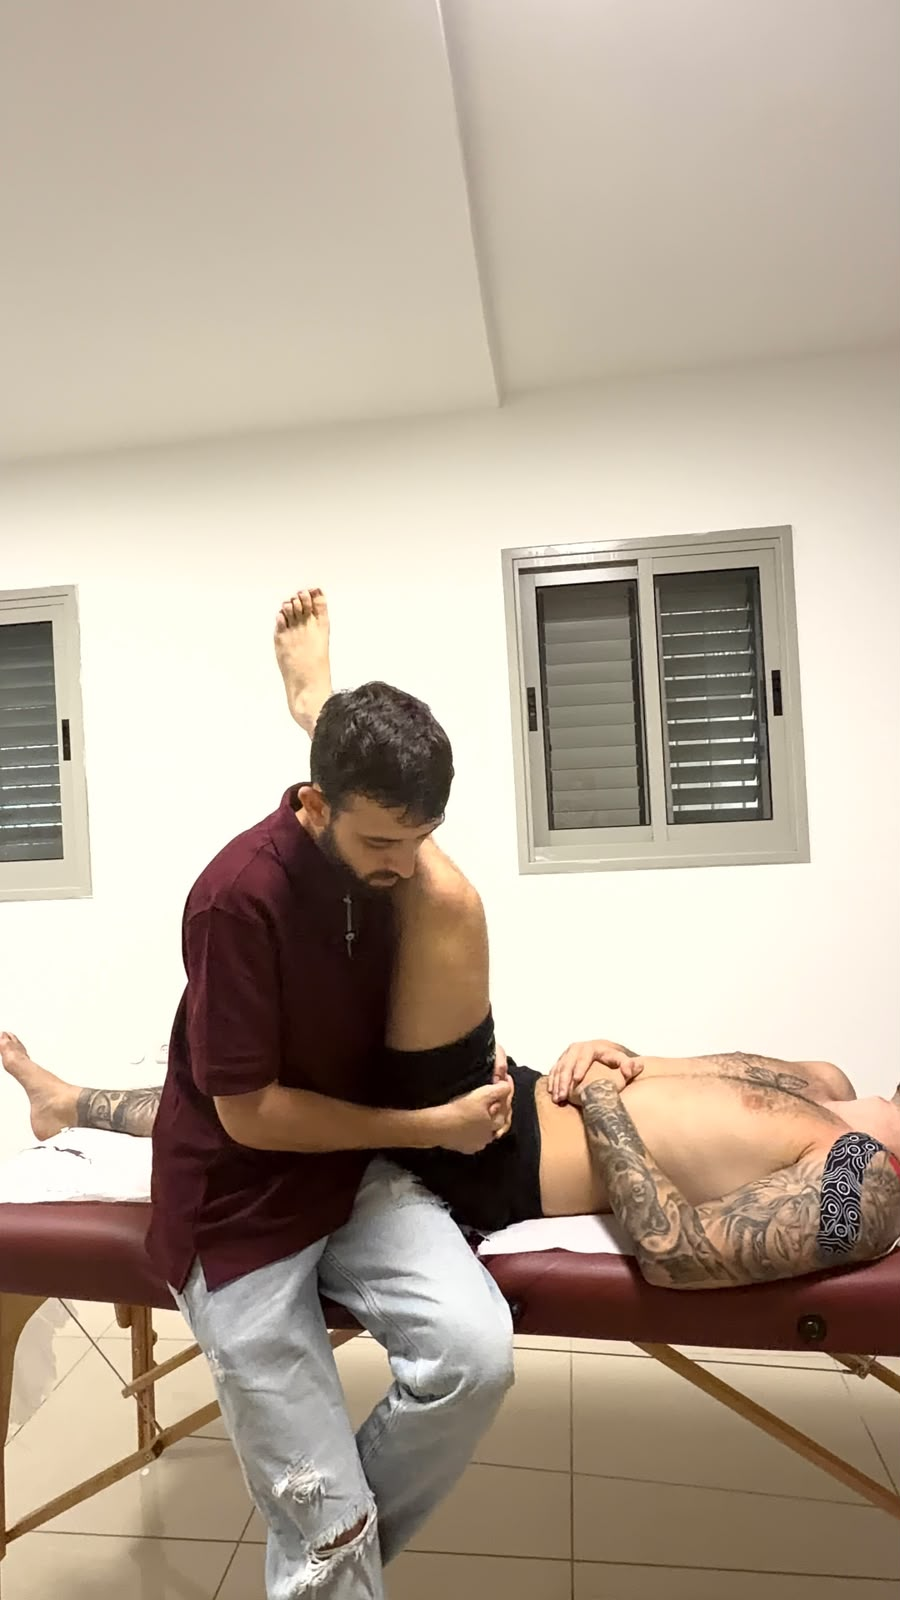
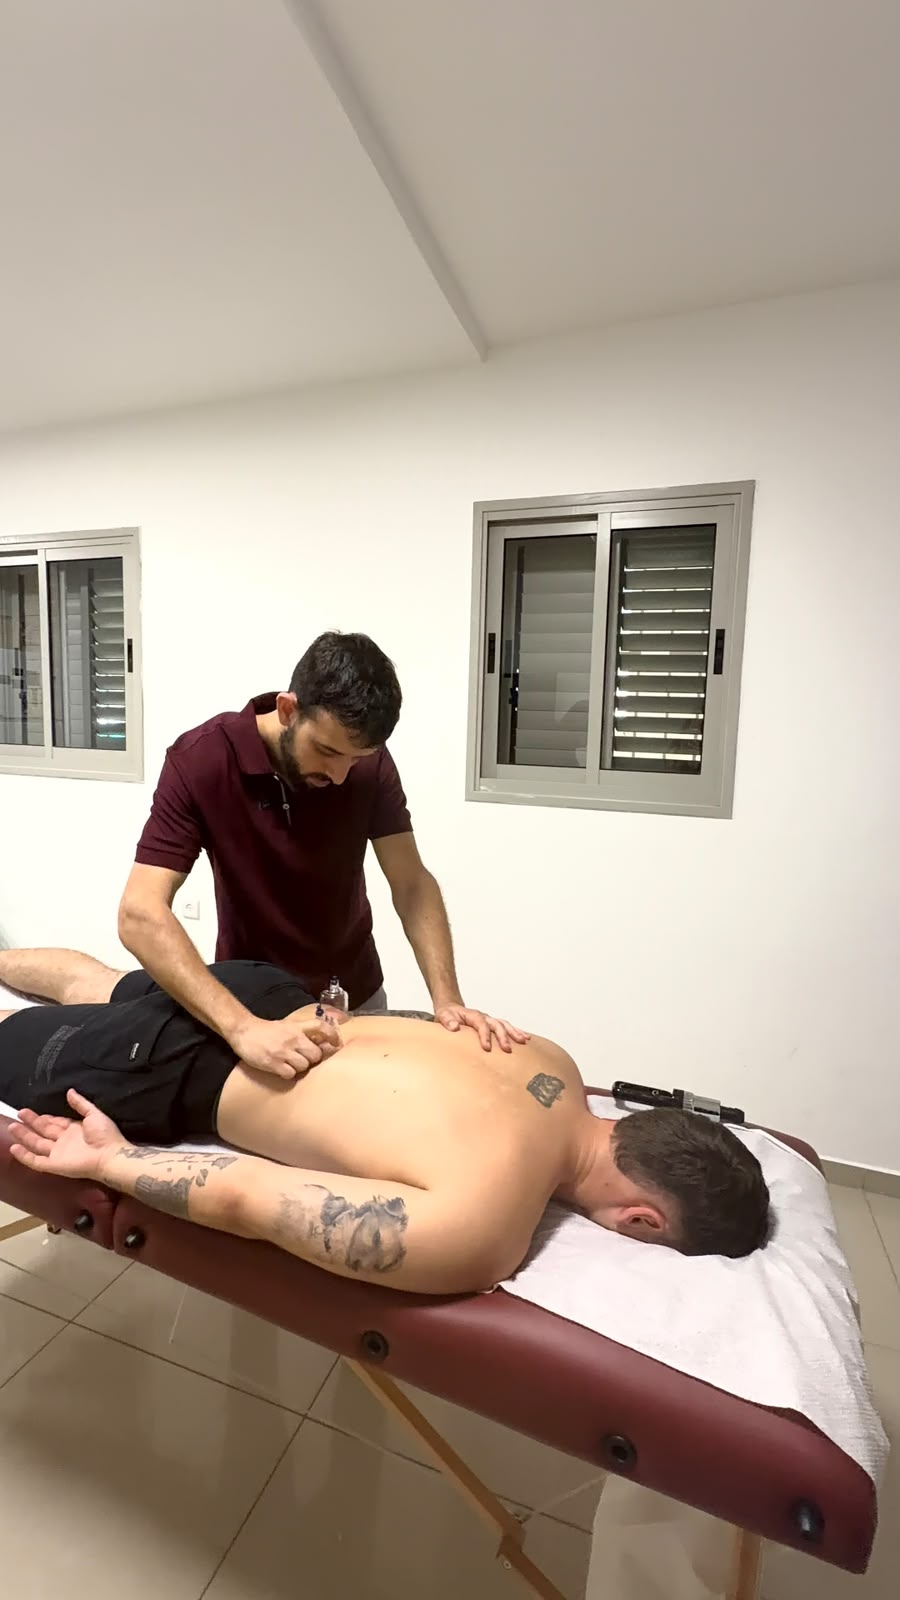
Add image-based testimonial carousel, fix hero/about photo crops
Testimonials now show the actual client screenshot with arrow navigation
(ready for more reviews). Swap hero and about photos for better-composed
shots and tune crop positioning on both.

diff --git a/src/components/App.ts b/src/components/App.ts
@@ -229,24 +229,34 @@ export function renderApp(config: Config): string {
     <!-- Testimonials Section -->
     ${config.testimonials.length > 0 ? `
     <section id="testimonials" class="py-14 md:py-24 bg-slate-50/70 reveal">
-      <div class="max-w-3xl mx-auto px-4 sm:px-6">
+      <div class="max-w-md mx-auto px-4 sm:px-6">
         <div class="text-center mb-8 md:mb-12">
           <h2 class="text-2xl sm:text-3xl md:text-4xl font-bold text-slate-800 mb-3">
             מה אומרים המטופלים
           </h2>
         </div>
-        <div class="grid gap-6">
-          ${config.testimonials.map((t) => `
-            <div class="bg-white rounded-2xl p-6 sm:p-8 shadow-md border border-slate-100">
-              <div class="flex items-center gap-4 mb-4">
-                <div class="w-14 h-14 rounded-full flex items-center justify-center flex-shrink-0 text-white font-bold text-lg bg-gradient-to-br from-primary-500 to-accent-500">
-                  ${t.name.trim().charAt(0)}
-                </div>
-                <h4 class="font-semibold text-slate-800">${t.name}</h4>
-              </div>
-              <p class="text-slate-600 text-base leading-relaxed">${t.quote}</p>
-            </div>
-          `).join('')}
+        <div class="relative flex items-center gap-3">
+          ${config.testimonials.length > 1 ? `
+          <button id="testimonial-prev" class="testimonial-arrow" aria-label="ביקורת קודמת">
+            <svg xmlns="http://www.w3.org/2000/svg" width="20" height="20" viewBox="0 0 24 24" fill="none" stroke="currentColor" stroke-width="2" stroke-linecap="round" stroke-linejoin="round"><path d="m15 18-6-6 6-6"/></svg>
+          </button>
+          ` : ''}
+
+          <div id="testimonial-track" class="testimonial-frame flex-1">
+            ${config.testimonials.map((t, i) => `
+              <img
+                src="${t.image}"
+                alt="ביקורת מאת ${t.name}"
+                class="testimonial-slide${i === 0 ? '' : ' hidden'}"
+              />
+            `).join('')}
+          </div>
+
+          ${config.testimonials.length > 1 ? `
+          <button id="testimonial-next" class="testimonial-arrow" aria-label="ביקורת הבאה">
+            <svg xmlns="http://www.w3.org/2000/svg" width="20" height="20" viewBox="0 0 24 24" fill="none" stroke="currentColor" stroke-width="2" stroke-linecap="round" stroke-linejoin="round"><path d="m9 18 6-6-6-6"/></svg>
+          </button>
+          ` : ''}
         </div>
       </div>
     </section>

diff --git a/src/styles/main.css b/src/styles/main.css
@@ -362,18 +362,37 @@
     @apply bg-white p-4 rounded-2xl border-2 border-slate-100 inline-block;
   }
 
+  /* Testimonials Carousel */
+  .testimonial-frame {
+    @apply bg-white rounded-2xl shadow-md border border-slate-100 overflow-hidden
+           flex items-center justify-center;
+    aspect-ratio: 4 / 5;
+  }
+
+  .testimonial-slide {
+    @apply w-full h-full object-contain;
+  }
+
+  .testimonial-arrow {
+    @apply flex-shrink-0 w-11 h-11 rounded-full bg-white
+           border border-slate-200 shadow-sm
+           flex items-center justify-center
+           text-slate-500 hover:text-primary-600 hover:border-primary-200
+           transition-all duration-200;
+  }
+
   /* Hero background: real photo when /hero.jpg exists, gradient fallback otherwise */
   .hero-bg {
     background-image: url('/hero.jpg'), linear-gradient(135deg, #0d9488 0%, #0a655e 45%, #1e293b 100%);
     background-size: cover;
-    background-position: center 20%;
+    background-position: center 40%;
   }
 
   /* Profile avatar: real photo when /profile.jpg exists, gradient initial fallback otherwise */
   .profile-avatar {
     background-image: url('/profile.jpg'), linear-gradient(135deg, #0d9488, #f97316);
     background-size: cover;
-    background-position: center 15%;
+    background-position: center 78%;
   }
 }
 

diff --git a/src/main.ts b/src/main.ts
@@ -176,6 +176,26 @@ document.addEventListener('DOMContentLoaded', () => {
     contactObserver.observe(contactSection);
   }
 
+  // Testimonials carousel
+  const testimonialTrack = document.getElementById('testimonial-track');
+  const testimonialPrev = document.getElementById('testimonial-prev');
+  const testimonialNext = document.getElementById('testimonial-next');
+  if (testimonialTrack) {
+    const slides = Array.from(testimonialTrack.querySelectorAll('.testimonial-slide'));
+    let testimonialIndex = 0;
+    const showTestimonial = (index: number) => {
+      slides.forEach((el, i) => el.classList.toggle('hidden', i !== index));
+    };
+    testimonialPrev?.addEventListener('click', () => {
+      testimonialIndex = (testimonialIndex - 1 + slides.length) % slides.length;
+      showTestimonial(testimonialIndex);
+    });
+    testimonialNext?.addEventListener('click', () => {
+      testimonialIndex = (testimonialIndex + 1) % slides.length;
+      showTestimonial(testimonialIndex);
+    });
+  }
+
   // Intake form - build a WhatsApp message from the entered details
   const contactForm = document.getElementById('contact-form') as HTMLFormElement;
   if (contactForm) {

diff --git a/src/data/config.ts b/src/data/config.ts
@@ -26,7 +26,7 @@ export interface YouTubeShort {
 
 export interface Testimonial {
   name: string;
-  quote: string;
+  image: string;
 }
 
 export interface Config {
@@ -109,7 +109,7 @@ export const config: Config = {
   testimonials: [
     {
       name: "מישל גרשקוביץ",
-      quote: "היום עשיתי אימון ראשון אחרי הטיפול וכבר הצלחתי לעלות במשקלים וכלל בלי כאב כמו לפני. הייתי קודם אצל 2 מטפלים ולא באמת היו תוצאות — אצלך כבר מהטיפול הראשון אני מרגיש תוצאות.",
+      image: "/testimonials/testimonial-1.jpg",
     },
   ],
   theme: {
